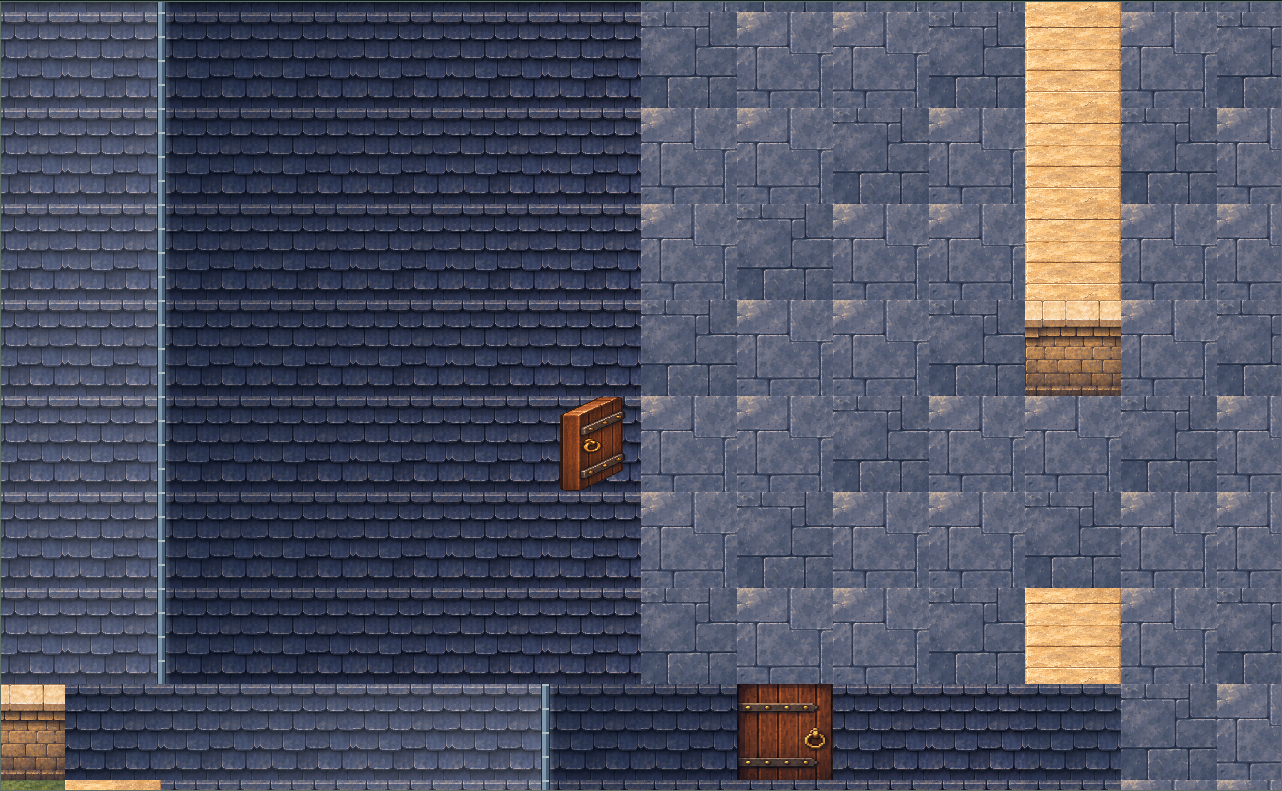
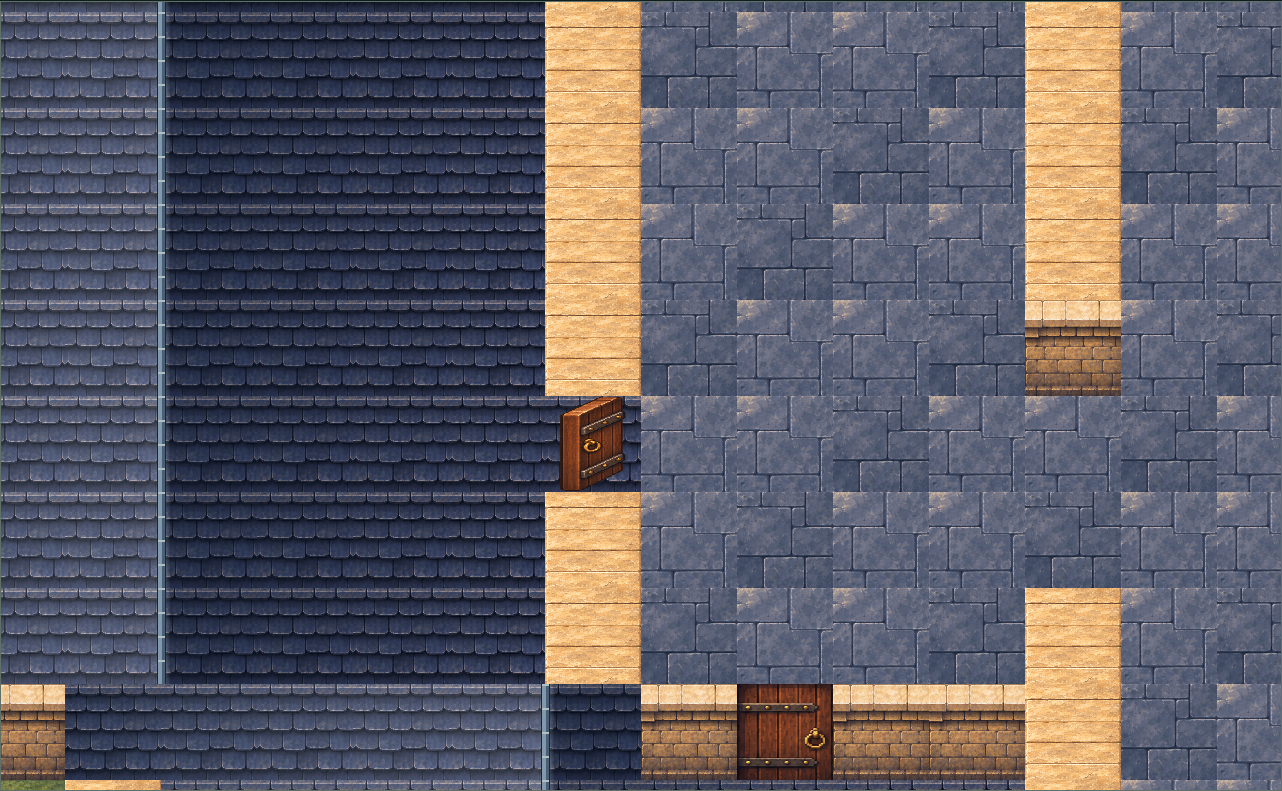
Rétablir les cloisons visibles et donner du relief aux bastingages

Changed region(s): [[0.4056, 0.0, 0.4992, 0.5158], [0.4056, 0.6068, 0.5928, 1.0], [0.624, 0.8496, 0.8736, 1.0]]

diff --git a/public/validation/cartes/index.html b/public/validation/cartes/index.html
@@ -3,11 +3,11 @@
 </style><main><header><h1>Corrections ciblées des cartes</h1><p>Les Terres Égarées — Château et abordage</p><p class="note">Captures prises dans l’atelier du jeu. Les plans JSON, les dimensions et les empreintes de collision sont conservés.</p><a class="button" href="../../">Ouvrir le jeu</a><p class="note">Dans le jeu : Tests de combat → Explorer les deux cartes. Un homme d’armes du jeu se déplace au clic ou avec les flèches, sans ennemis. Le zoom, la grille et les commandes de portes restent disponibles.</p></header><figure><a href="correction-castle-junctions-openings.png"><img src="correction-castle-junctions-openings.png" alt="Château — jonctions et ouvertures" loading="lazy"></a><figcaption><h2>Château — jonctions et ouvertures</h2><p>Façade complète au-dessus des passages latéraux ouverts ou sans porte.</p><a href="correction-castle-junctions-openings.png">Ouvrir la capture en taille réelle</a></figcaption></figure>
 <figure><a href="correction-castle-entrance.png"><img src="correction-castle-entrance.png" alt="Château — entrée principale" loading="lazy"></a><figcaption><h2>Château — entrée principale</h2><p>Marches composées à la même échelle que les murs, sur les cases d’escalier du plan.</p><a href="correction-castle-entrance.png">Ouvrir la capture en taille réelle</a></figcaption></figure>
 <figure><a href="correction-castle-throne-rug.png"><img src="correction-castle-throne-rug.png" alt="Château — tapis du trône" loading="lazy"></a><figcaption><h2>Château — tapis du trône</h2><p>Trône tourné vers la gauche et tapis horizontal, sans modification du JSON.</p><a href="correction-castle-throne-rug.png">Ouvrir la capture en taille réelle</a></figcaption></figure>
-<figure><a href="correction-ship-rails-gangway.png"><img src="correction-ship-rails-gangway.png" alt="Navires — bastingages et passerelle" loading="lazy"></a><figcaption><h2>Navires — bastingages et passerelle</h2><p>Bastingages épais sur toute la largeur de leurs cases ; ouvertures et eau sous les planches conservées.</p><a href="correction-ship-rails-gangway.png">Ouvrir la capture en taille réelle</a></figcaption></figure>
+<figure><a href="correction-ship-rails-gangway.png"><img src="correction-ship-rails-gangway.png" alt="Navires — bastingages et passerelle" loading="lazy"></a><figcaption><h2>Navires — bastingages et passerelle</h2><p>Bastingages en relief : dessus continu, corniche biseautée, face verticale ombrée et extrémités fermées. Largeur et passages conservés.</p><a href="correction-ship-rails-gangway.png">Ouvrir la capture en taille réelle</a></figcaption></figure>
 <figure><a href="correction-ship-mast-left.png"><img src="correction-ship-mast-left.png" alt="Navire gauche — mât central" loading="lazy"></a><figcaption><h2>Navire gauche — mât central</h2><p>Le même disque circulaire que les demi-mâts complète le mât central.</p><a href="correction-ship-mast-left.png">Ouvrir la capture en taille réelle</a></figcaption></figure>
 <figure><a href="correction-ship-mast-right.png"><img src="correction-ship-mast-right.png" alt="Navire droit — mât central" loading="lazy"></a><figcaption><h2>Navire droit — mât central</h2><p>Même matière et même forme circulaire, sur l’empreinte prévue.</p><a href="correction-ship-mast-right.png">Ouvrir la capture en taille réelle</a></figcaption></figure>
 <figure><a href="correction-ship-hatch-storage.png"><img src="correction-ship-hatch-storage.png" alt="Navires — cale et plancher" loading="lazy"></a><figcaption><h2>Navires — cale et plancher</h2><p>Grille métallique alignée sur les cases, avec son cadre intégré au pont.</p><a href="correction-ship-hatch-storage.png">Ouvrir la capture en taille réelle</a></figcaption></figure>
-<figure><a href="correction-ship-storage-grid.png"><img src="correction-ship-storage-grid.png" alt="Navires — stockage sur la grille" loading="lazy"></a><figcaption><h2>Navires — stockage sur la grille</h2><p>Grandes caisses uniques de 2 × 2 cases sur leur empreinte exacte ; aucun passage supplémentaire bloqué.</p><a href="correction-ship-storage-grid.png">Ouvrir la capture en taille réelle</a></figcaption></figure><figure><a href="correction-castle-roof-side-door.png"><img src="correction-castle-roof-side-door.png" alt="Château — porte de profil et pièces fermées" loading="lazy"></a><figcaption><h2>Château — porte de profil et pièces fermées</h2><p>Porte fermée vue de côté ; les coins de toiture restent couverts avant l’ouverture des pièces.</p><a href="correction-castle-roof-side-door.png">Ouvrir la capture en taille réelle</a></figcaption></figure>
-<figure><a href="correction-castle-roof-reserve.png"><img src="correction-castle-roof-reserve.png" alt="Château — toiture autour de la réserve" loading="lazy"></a><figcaption><h2>Château — toiture autour de la réserve</h2><p>Couloir révélé et pièces encore fermées : la toiture reste continue aux coins.</p><a href="correction-castle-roof-reserve.png">Ouvrir la capture en taille réelle</a></figcaption></figure>
+<figure><a href="correction-ship-storage-grid.png"><img src="correction-ship-storage-grid.png" alt="Navires — stockage sur la grille" loading="lazy"></a><figcaption><h2>Navires — stockage sur la grille</h2><p>Grandes caisses uniques de 2 × 2 cases sur leur empreinte exacte ; aucun passage supplémentaire bloqué.</p><a href="correction-ship-storage-grid.png">Ouvrir la capture en taille réelle</a></figcaption></figure><figure><a href="correction-castle-roof-side-door.png"><img src="correction-castle-roof-side-door.png" alt="Château — porte de profil et pièces fermées" loading="lazy"></a><figcaption><h2>Château — porte de profil et pièces fermées</h2><p>Murs visibles depuis le couloir ouvert, porte de profil, toit conservé sur le sol des pièces fermées.</p><a href="correction-castle-roof-side-door.png">Ouvrir la capture en taille réelle</a></figcaption></figure>
+<figure><a href="correction-castle-roof-reserve.png"><img src="correction-castle-roof-reserve.png" alt="Château — toiture autour de la réserve" loading="lazy"></a><figcaption><h2>Château — toiture autour de la réserve</h2><p>Les murs du couloir restent visibles ; les pièces fermées et les coins sans face exposée restent couverts.</p><a href="correction-castle-roof-reserve.png">Ouvrir la capture en taille réelle</a></figcaption></figure>
 <figure><a href="correction-exploration-character.png"><img src="correction-exploration-character.png" alt="Exploration — personnage du jeu" loading="lazy"></a><figcaption><h2>Exploration — personnage du jeu</h2><p>Homme d’armes du jeu sur le pont, contrôlable au clic ou avec les flèches, sans ennemis.</p><a href="correction-exploration-character.png">Ouvrir la capture en taille réelle</a></figcaption></figure>
 <footer><a href="../../">Retour au jeu</a></footer></main></html>

diff --git a/src/rendering/plan-renderer.ts b/src/rendering/plan-renderer.ts
@@ -16,7 +16,6 @@ import {
   SHIP,
   MATERIAL_PIXELS,
   periodicWater,
-  approvedRailTexture,
   loadMaterialImages,
   type MaterialImages,
   type Crop,
@@ -112,6 +111,56 @@ function doorSprite(
     );
   } else c.drawImage(images.castleDetails, 450, 600, 114, 154, x, y, w, h);
 }
+/** A raised wooden wall: continuous upper beam, shaded upright face and end grain.
+ * All projection remains inside the existing blocked tile, never over a gangway. */
+function paintBulwark(
+  c: CanvasRenderingContext2D,
+  images: PlanArtwork,
+  ironBand: boolean,
+  northEnd: boolean,
+  southEnd: boolean,
+) {
+  // Dark upright planking and iron straps use the approved wooden wall material.
+  c.drawImage(images.corrections, 633, 630, 302, 620, 8, 0, 88, P);
+  c.fillStyle = "#180d09";
+  c.fillRect(0, 0, 8, P); // cast contact shadow on the deck side
+  // Broad top of the beam, raised above the recessed outside face.
+  c.drawImage(images.corrections, 960, 640, 80, 600, 8, 0, 46, P);
+  c.fillStyle = "#f5ce87";
+  c.fillRect(8, 0, 3, P);
+  c.fillStyle = "#ba793c";
+  c.fillRect(11, 0, 3, P);
+  // Stepped, beveled cornice projects past the facade: a hard lit edge and a
+  // deep undercut separate the top surface from the vertical wooden boards.
+  c.fillStyle = "#f4c779";
+  c.fillRect(50, 0, 5, P);
+  c.fillStyle = "#b87836";
+  c.fillRect(55, 0, 5, P);
+  c.fillStyle = "#573018";
+  c.fillRect(60, 0, 6, P);
+  c.fillStyle = "#1c110bbd";
+  c.fillRect(66, 0, 8, P);
+  c.fillStyle = "#1a100be6";
+  c.fillRect(92, 0, 4, P);
+  if (ironBand) {
+    // A metal binding wraps over the beam and down its face (not a floor post).
+    c.fillStyle = "#241d18";
+    c.fillRect(8, 36, 84, 14);
+    c.fillStyle = "#78634a";
+    c.fillRect(8, 36, 47, 3);
+    c.fillStyle = "#bba37e";
+    for (const x of [19, 43, 81]) c.fillRect(x, 41, 3, 3);
+  }
+  for (const y of [northEnd ? 0 : -1, southEnd ? P - 14 : -1]) {
+    if (y < 0) continue;
+    c.drawImage(images.corrections, 1148, 641, 86, 63, 8, y, 84, 14);
+    c.fillStyle = "#f2c77b";
+    c.fillRect(8, y, 84, 2);
+    c.fillStyle = "#2f1b0f";
+    c.fillRect(8, y + 12, 84, 2);
+  }
+}
+
 export function renderPlanBase(s: PlanState, images?: PlanArtwork) {
   const map = s.map,
     a = surface(map);
@@ -147,16 +196,13 @@ export function renderPlanBase(s: PlanState, images?: PlanArtwork) {
                 c.translate(xx + P, yy);
                 c.scale(-1, 1);
               } else c.translate(xx, yy);
-              c.drawImage(
-                approvedRailTexture(images, y % 2 === 0),
-                0,
-                0,
-                P / 4,
-                P,
-                0,
-                0,
-                P,
-                P,
+              paintBulwark(
+                c,
+                images,
+                y % 2 === 0,
+                y === 0 || map.tiles[(y - 1) * map.width + x] !== "rail",
+                y === map.height - 1 ||
+                  map.tiles[(y + 1) * map.width + x] !== "rail",
               );
               c.restore();
             }

diff --git a/tests/plan-maps.test.ts b/tests/plan-maps.test.ts
@@ -197,25 +197,41 @@ test("shared tactical pathfinder respects weighted costs, blockers and map edges
   assert.deepEqual(buildPlan("boarding").objects, boardingPlan.objects);
 });
 
-test("closed rooms keep shared wall corners roofed when the adjacent corridor opens", () => {
+test("revealed corridors expose partition walls while closed room floors and untouched corners stay roofed", () => {
   const s = createPlanState(castlePlan);
   openPlanDoor(s, 13, "key");
+  // Regression: these partitions were hidden by roofs until BOTH rooms opened.
   for (const [x, y] of [
     [9, 18],
     [9, 19],
-    [9, 24],
     [10, 24],
-    [38, 14],
-    [28, 14],
   ]) {
     assert.equal(castlePlan.tiles[y * 42 + x], "wall");
-    assert.equal(roofVisible(s, y * 42 + x), true, `${x},${y}`);
+    assert.equal(
+      roofVisible(s, y * 42 + x),
+      false,
+      `visible partition ${x},${y}`,
+    );
   }
+  for (const [x, y] of [
+    [9, 24],
+    [38, 14],
+    [28, 14],
+  ])
+    assert.equal(
+      roofVisible(s, y * 42 + x),
+      true,
+      `untouched corner ${x},${y}`,
+    );
+  for (const [x, y] of [
+    [3, 21],
+    [7, 28],
+    [31, 17],
+    [4, 12],
+  ])
+    assert.equal(roofVisible(s, y * 42 + x), true, `closed floor ${x},${y}`);
   openPlanDoor(s, 14, "key");
   assert.equal(roofVisible(s, 9 + 24 * 42), true, "guards remain closed");
-  assert.equal(roofVisible(s, 9 + 18 * 42), true, "canteen remains closed");
   openPlanDoor(s, 116, "key");
   assert.equal(roofVisible(s, 9 + 24 * 42), false);
-  openPlanDoor(s, 10003, "key");
-  assert.equal(roofVisible(s, 9 + 18 * 42), false);
 });

diff --git a/src/data/plan-maps.ts b/src/data/plan-maps.ts
@@ -186,8 +186,9 @@ export function roofVisible(s: PlanState, k: number): boolean {
   if (!s.map.building.has(k)) return false;
   if (s.revealed.has(k)) return false;
   if (s.map.tiles[k] === "wall") {
-    // A shared wall/corner belongs to every adjoining interior, including rooms
-    // behind closed doors. Revealing a corridor must not cut into their roofs.
+    // The wall facing a revealed room must be visible even while the room on
+    // its other side stays roofed. Only untouched corners retain their roof.
+    if (neighbors(s.map, k).some((n) => s.revealed.has(n))) return false;
     const edges = new Set(
       neighbors(s.map, k)
         .flatMap((n) => (s.map.tiles[n] === "wall" ? neighbors(s.map, n) : [n]))

diff --git a/docs/GRAPHICS-CORRECTIONS.md b/docs/GRAPHICS-CORRECTIONS.md
@@ -12,12 +12,15 @@ L’escalier d’entrée, les sols, la mer, les cales et les mâts validés sont
   profil distinct. Le trône est dessiné tourné à gauche. Ces deux variantes sont
   dans `public/assets/material-tests/directional-props.png` ; les autres textures
   restent celles du tileset validé.
-- Un mur partagé entre plusieurs intérieurs garde son toit tant qu’un des
-  intérieurs voisins reste fermé. Les coins entre armurerie/cantine/gardes et
-  autour de la réserve ne se découvrent plus depuis le seul couloir voisin.
-  Le mécanisme d’ouverture et de révélation des pièces est conservé.
-- Les bastingages remplissent maintenant toute la largeur de leur case bloquée.
-  Les ouvertures de passerelles sont conservées.
+- Correction de la régression des cloisons : dès qu’une pièce ou un couloir est
+  découvert, ses murs adjacents restent visibles, même si la pièce de l’autre
+  côté est encore fermée. Le toit reste sur le sol des pièces fermées et sur les
+  coins sans face exposée. Les tests couvrent maintenant ces états intermédiaires.
+- Les bastingages gardent leur largeur d’une case. Leur dessin compose une
+  corniche supérieure continue en bois, un chanfrein éclairé, une ombre portée
+  sous la corniche et une face verticale en planches cerclée de fer. Le bois de
+  bout ferme les extrémités aux passerelles. Les textures viennent des matériaux
+  validés ; les collisions et les ouvertures de passerelles restent inchangées.
 - Les grandes caisses restent des caisses uniques de 2 × 2 cases, sur leur
   empreinte d’origine, au lieu de quatre petits objets.
 - L’atelier utilise un homme d’armes du catalogue réel du jeu, ses sprites de
